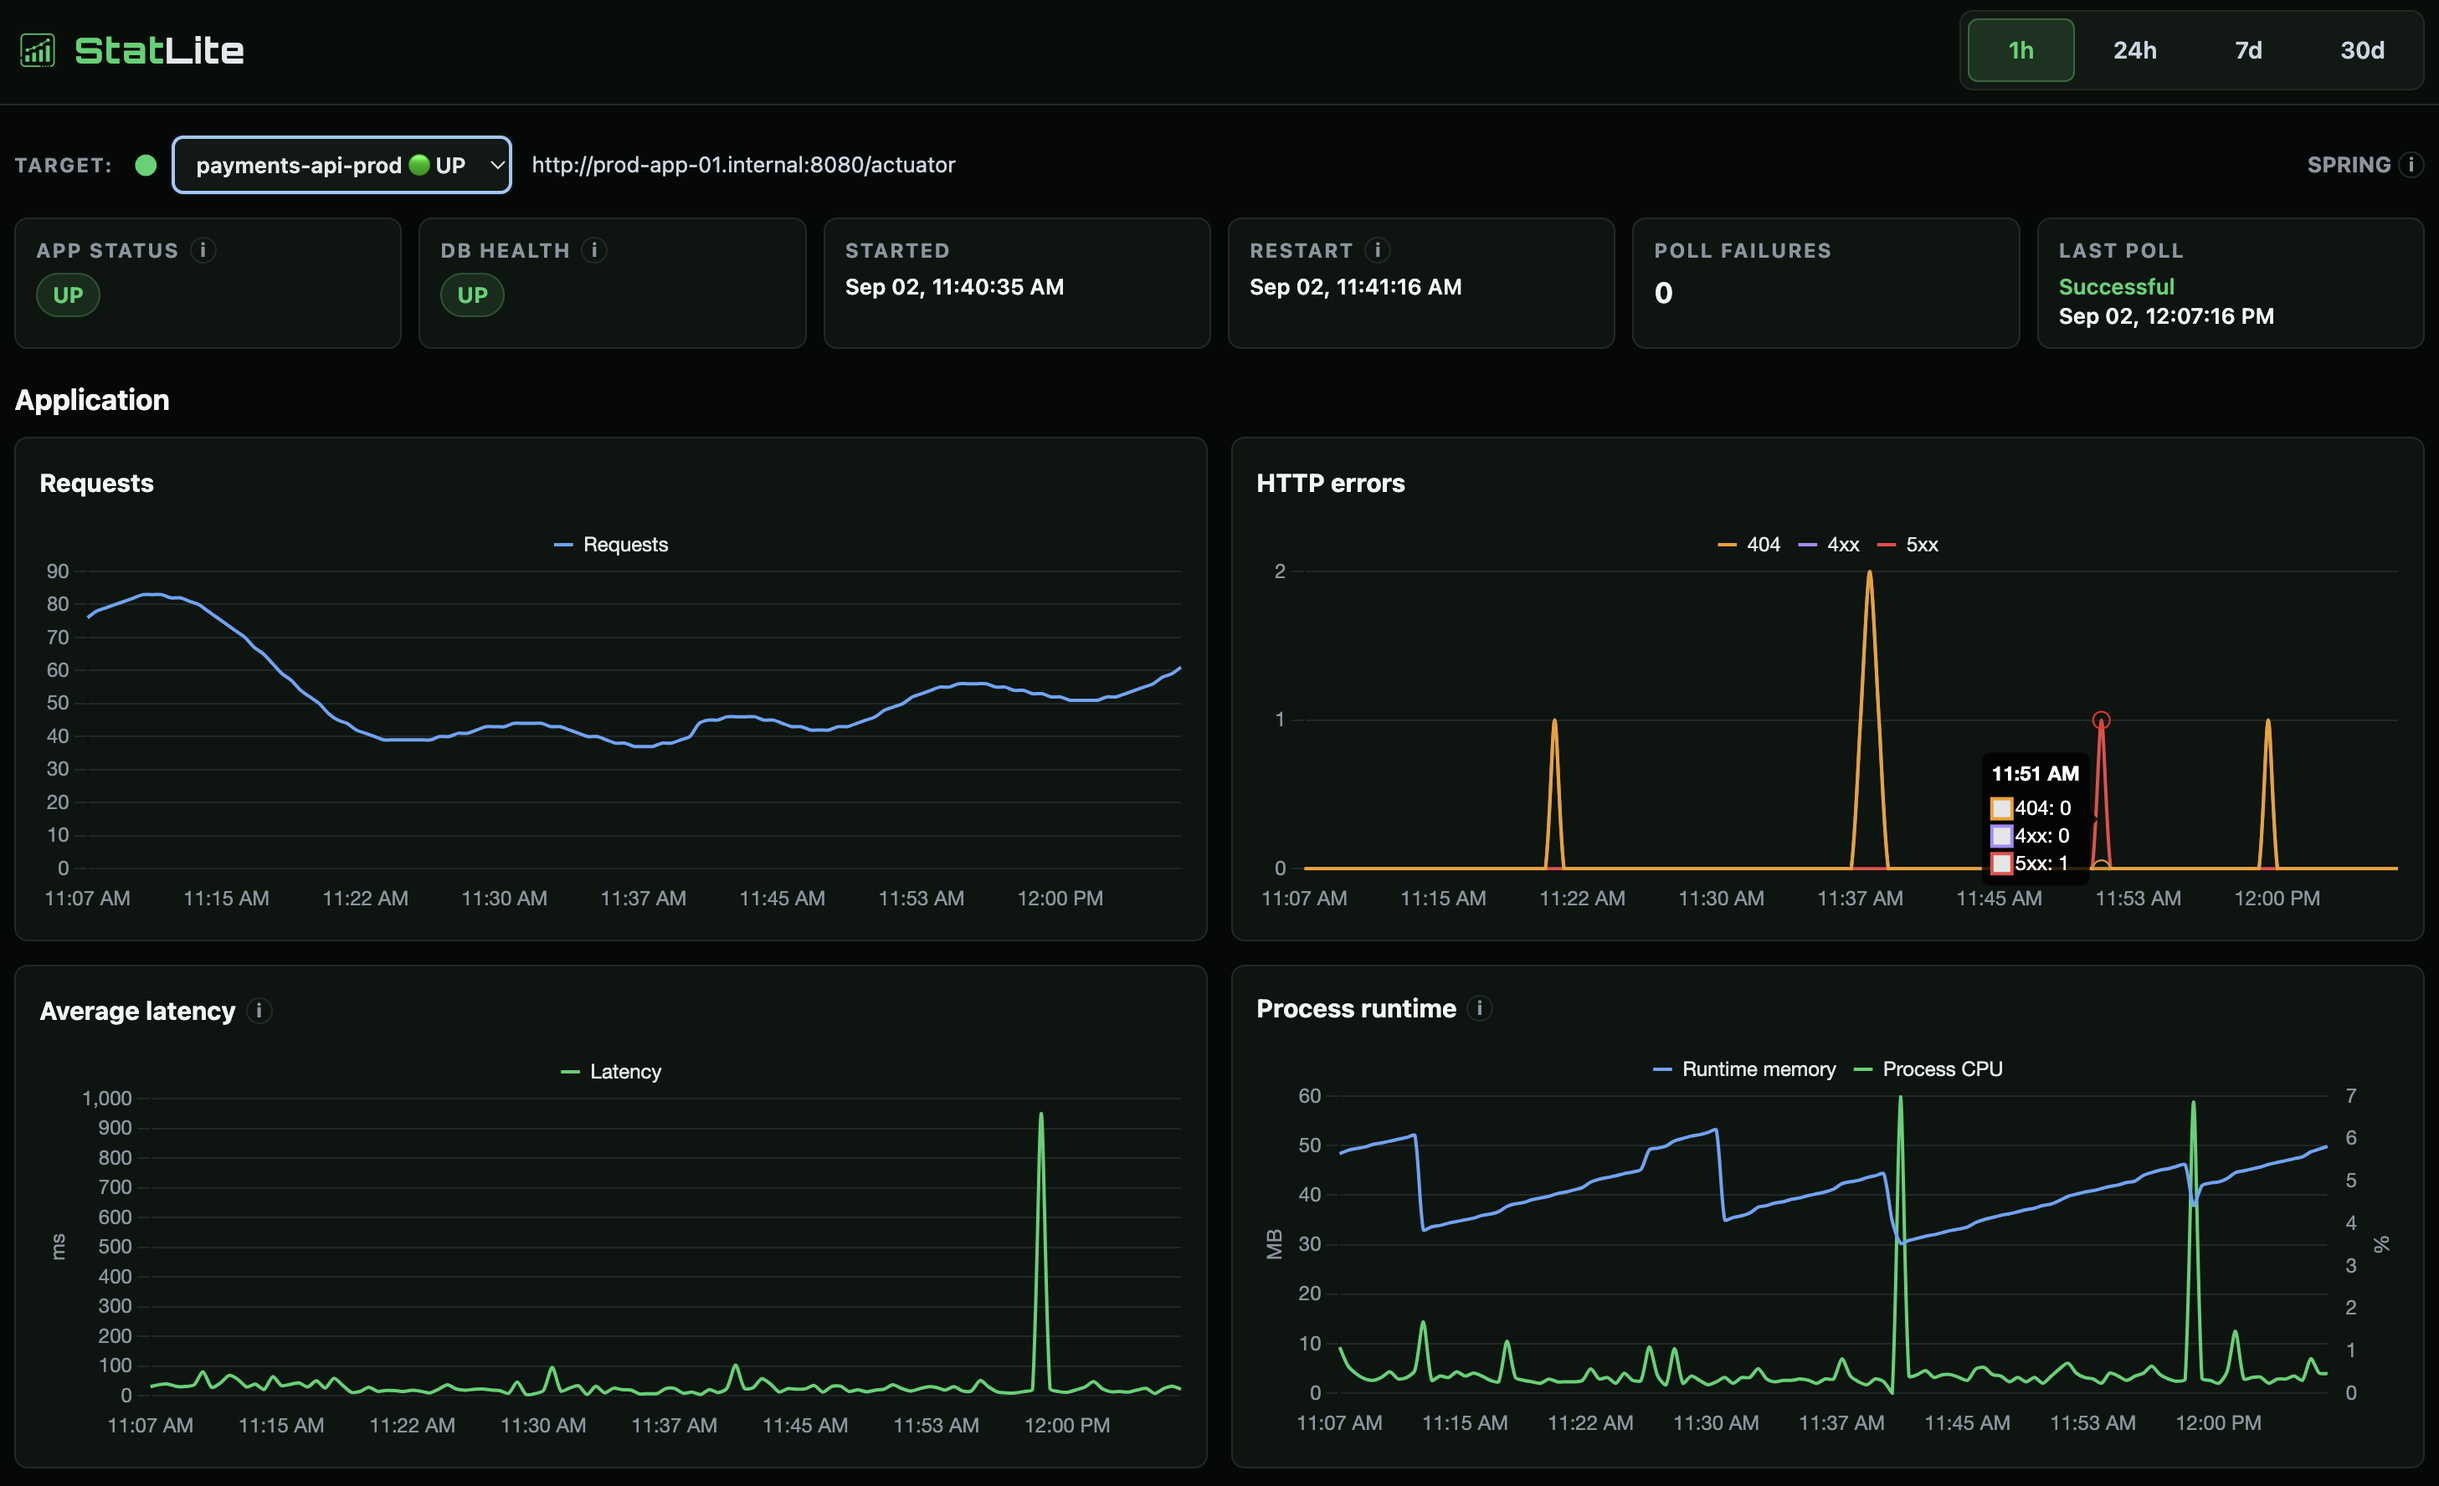
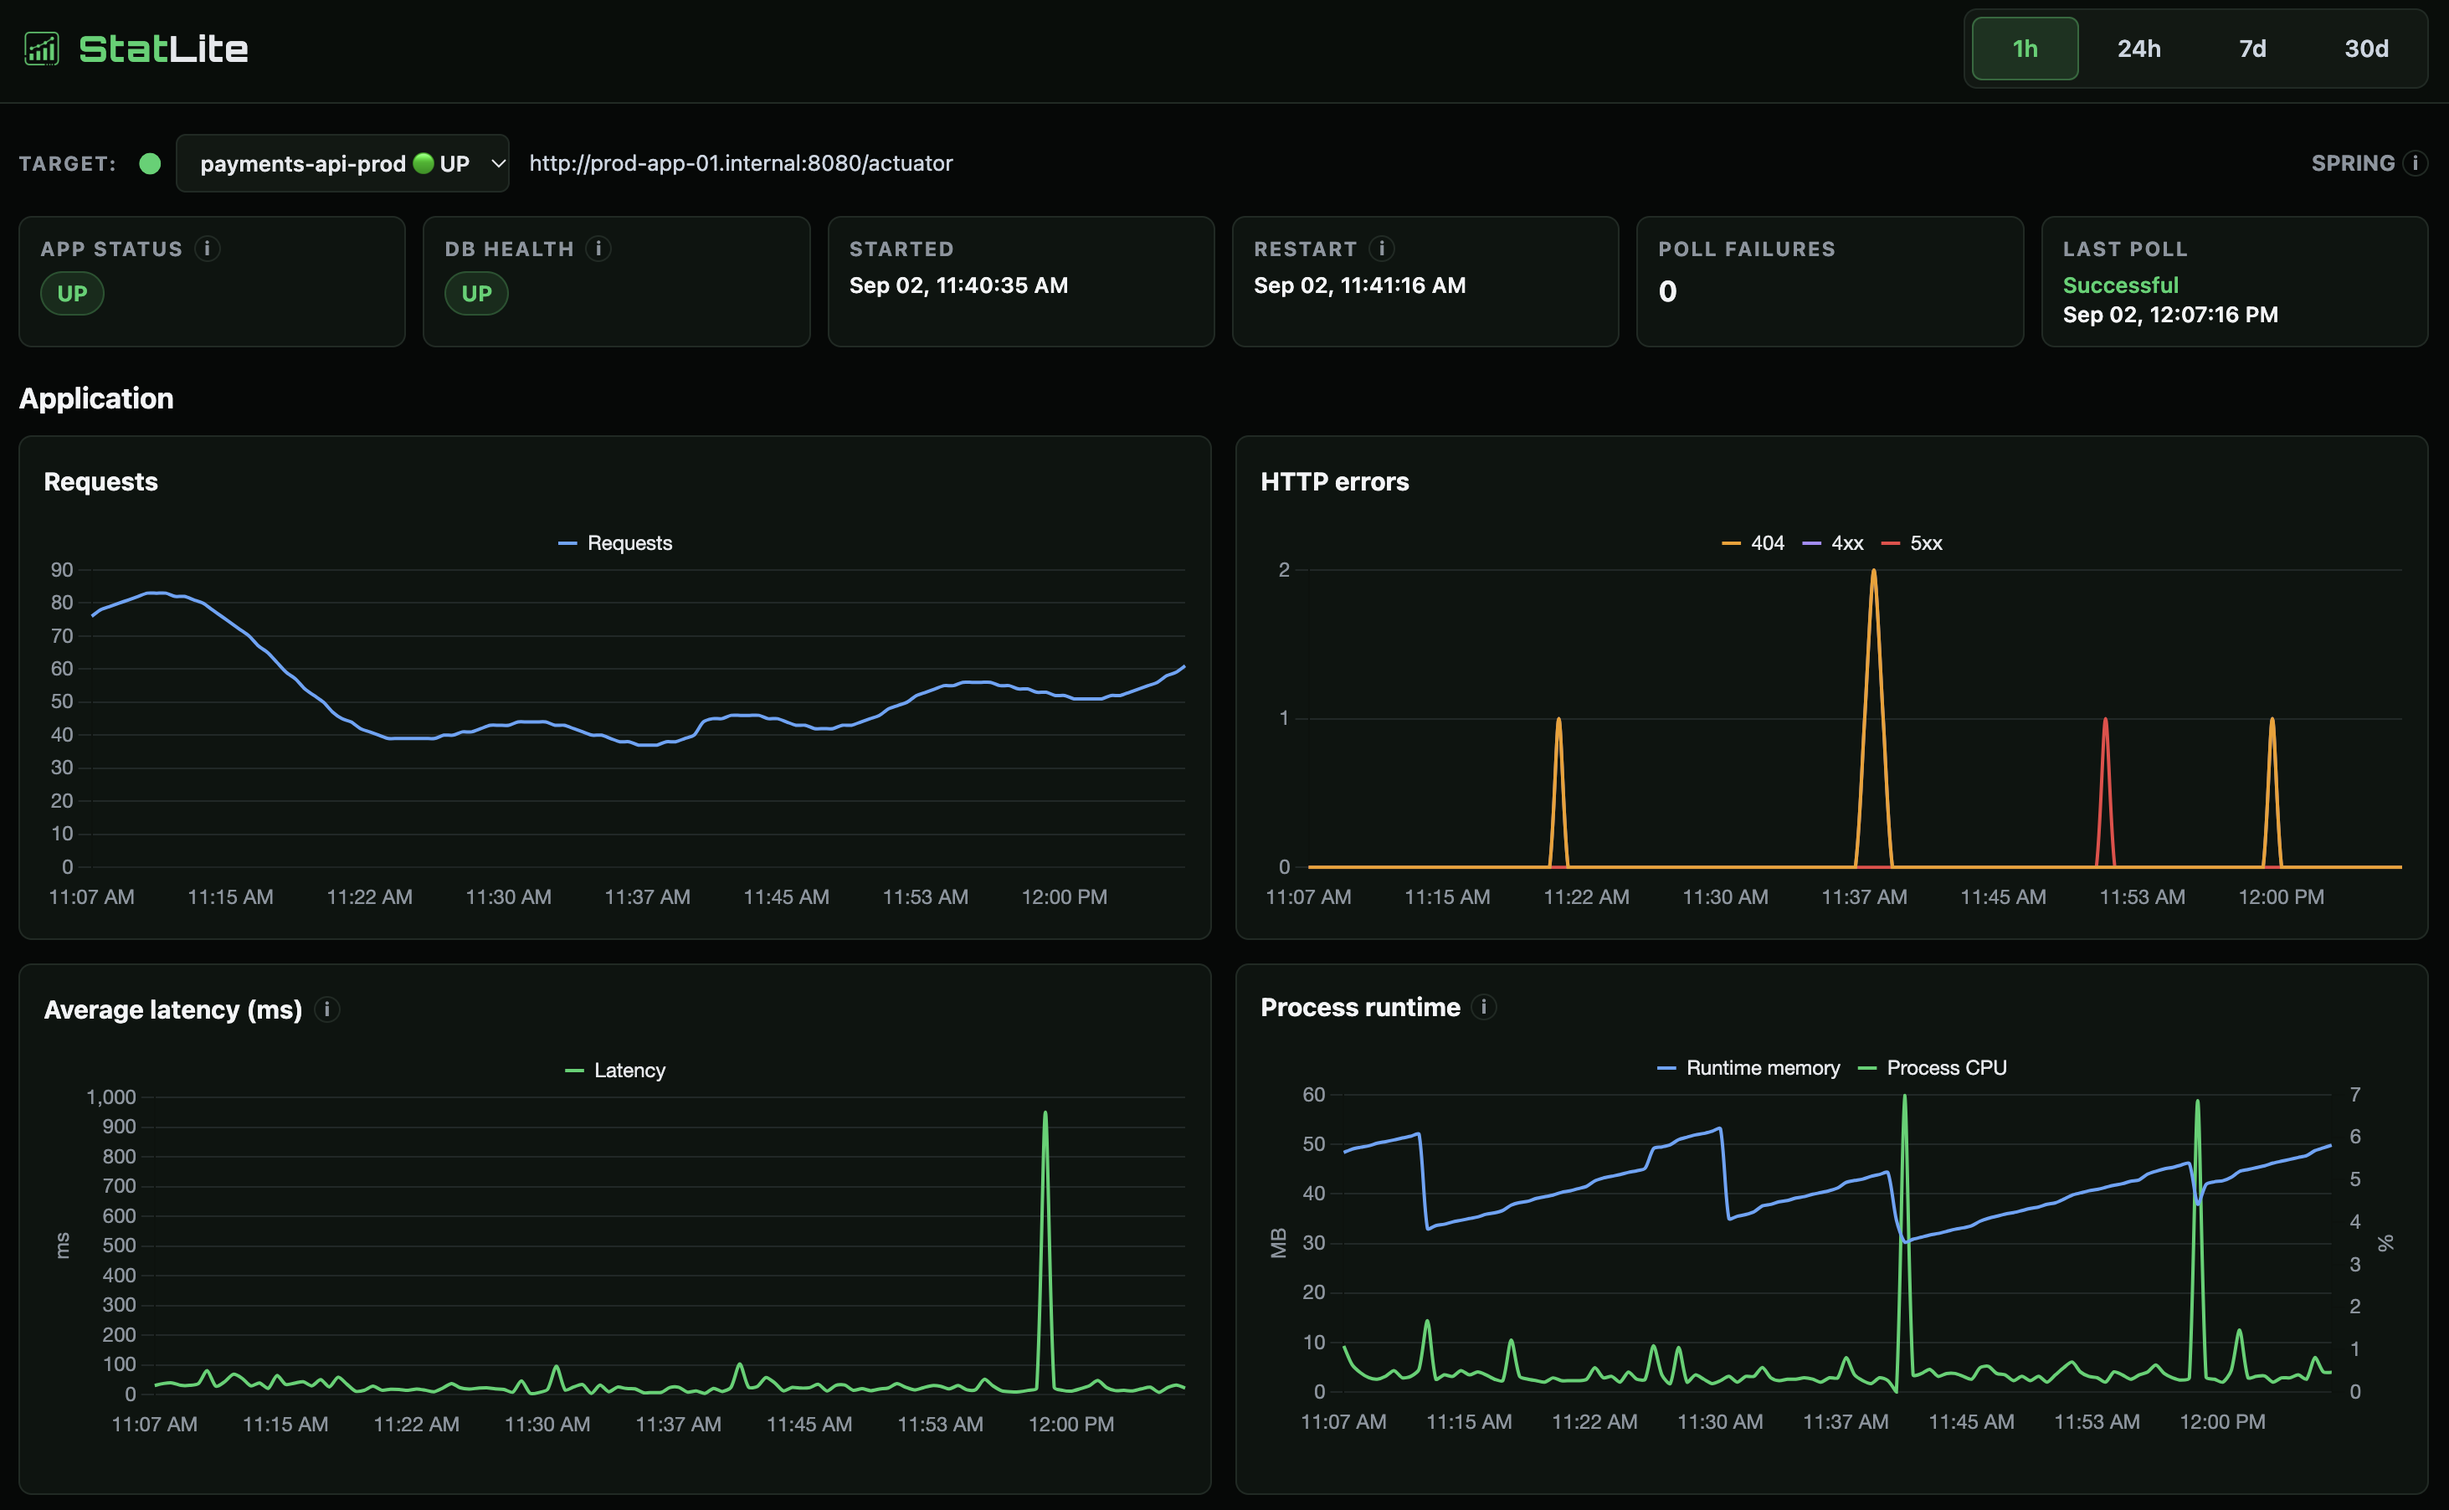
Refresh the StatLite dashboard screenshot

diff --git a/index.html b/index.html
@@ -146,7 +146,7 @@
                 <div class="hero-tools" aria-label="PVR Labs products">
                     <a class="hero-tool" href="/statlite/">
                         <span class="product-wordmark product-wordmark--statlite"><span class="product-wordmark-part product-wordmark-part--accent">Stat</span><span class="product-wordmark-part product-wordmark-part--light">Lite</span></span>
-                        <img src="img/statlite-dashboard.webp" alt="StatLite dashboard showing Spring Boot health, a recent restart, and charts for requests, HTTP errors, latency, JVM memory, and CPU" width="2914" height="1776">
+                        <img src="img/statlite-dashboard.webp" alt="StatLite dashboard showing Spring Boot health, a recent restart, and charts for requests, HTTP errors, latency, JVM memory, and CPU" width="2926" height="1804">
                     </a>
                     <a class="hero-tool" href="/aibadger/">
                         <span class="product-wordmark product-wordmark--aibadger"><span class="product-wordmark-part product-wordmark-part--light">AI</span><span class="product-wordmark-part product-wordmark-part--accent">Badger</span></span>
@@ -173,8 +173,8 @@
                         <img
                             src="img/statlite-dashboard.webp"
                             alt="StatLite dashboard showing Spring Boot health, a recent restart, and charts for requests, HTTP errors, latency, JVM memory, and CPU"
-                            width="2914"
-                            height="1776"
+                            width="2926"
+                            height="1804"
                             loading="lazy"
                             decoding="async">
                     </a>

diff --git a/articles/lightweight-spring-boot-monitoring.html b/articles/lightweight-spring-boot-monitoring.html
@@ -63,7 +63,7 @@
     <div class="article-body">
         <p>Running one Spring Boot application or a handful of them on a VPS still calls for basic operational visibility. You need to know whether an application is reachable, whether errors are rising, and whether it restarted. You may not need a complete monitoring platform to answer those questions.</p>
         <p>Spring Boot Actuator already exposes much of that information through its health endpoint and Micrometer metrics. StatLite, created by PVR Labs, turns it into a focused dashboard for health, requests, errors, latency, memory, uptime, and restarts. It runs as one Go binary and stores its history in SQLite.</p>
-        <img class="article-hero-image" src="/img/statlite-dashboard.webp" width="2914" height="1776" loading="eager" decoding="async" alt="StatLite dashboard showing Spring Boot health, a recent restart, and charts for requests, HTTP errors, latency, JVM memory, and CPU">
+        <img class="article-hero-image" src="/img/statlite-dashboard.webp" width="2926" height="1804" loading="eager" decoding="async" alt="StatLite dashboard showing Spring Boot health, a recent restart, and charts for requests, HTTP errors, latency, JVM memory, and CPU">
         <div class="article-actions article-actions--lead"><a href="/statlite/demo.html" class="btn btn-secondary">Explore the live dashboard demo</a></div>
 
         <h2>Why the usual options can be more than you need</h2>

diff --git a/statlite/index.html b/statlite/index.html
@@ -78,7 +78,7 @@
                 <a href="/statlite/demo.html" class="dashboard-preview">
                     <div class="dashboard-frame">
                         <div class="frame-bar"><span></span><span></span><span></span><code>StatLite</code></div>
-                        <img src="/img/statlite-dashboard.webp" width="2914" height="1776" alt="StatLite dashboard showing Spring Boot health, a recent restart, and charts for requests, HTTP errors, latency, JVM memory, and CPU" fetchpriority="high">
+                        <img src="/img/statlite-dashboard.webp" width="2926" height="1804" alt="StatLite dashboard showing Spring Boot health, a recent restart, and charts for requests, HTTP errors, latency, JVM memory, and CPU" fetchpriority="high">
                     </div>
                 </a>
             </div>
